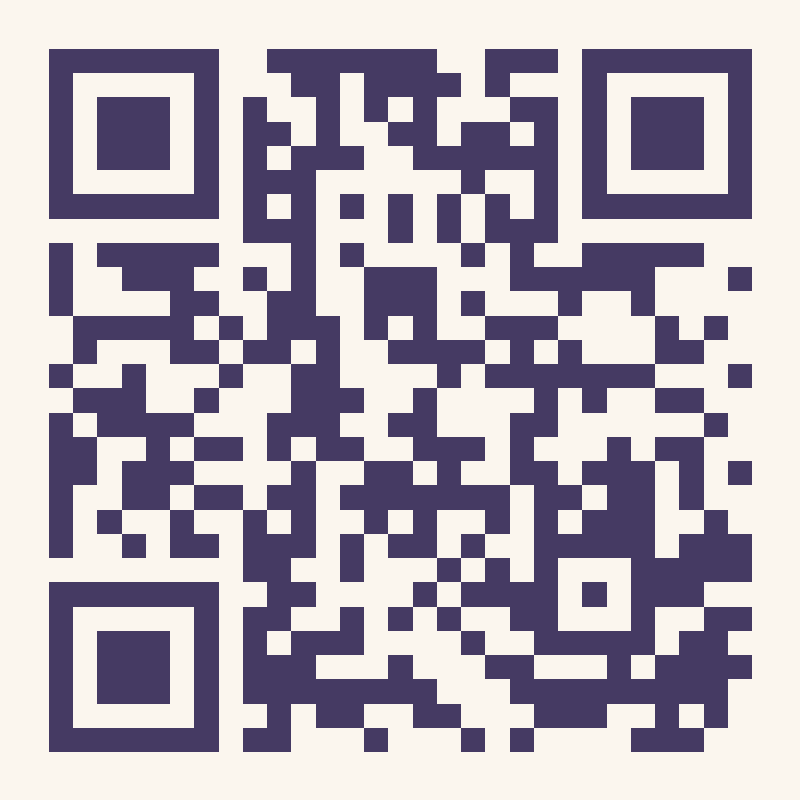
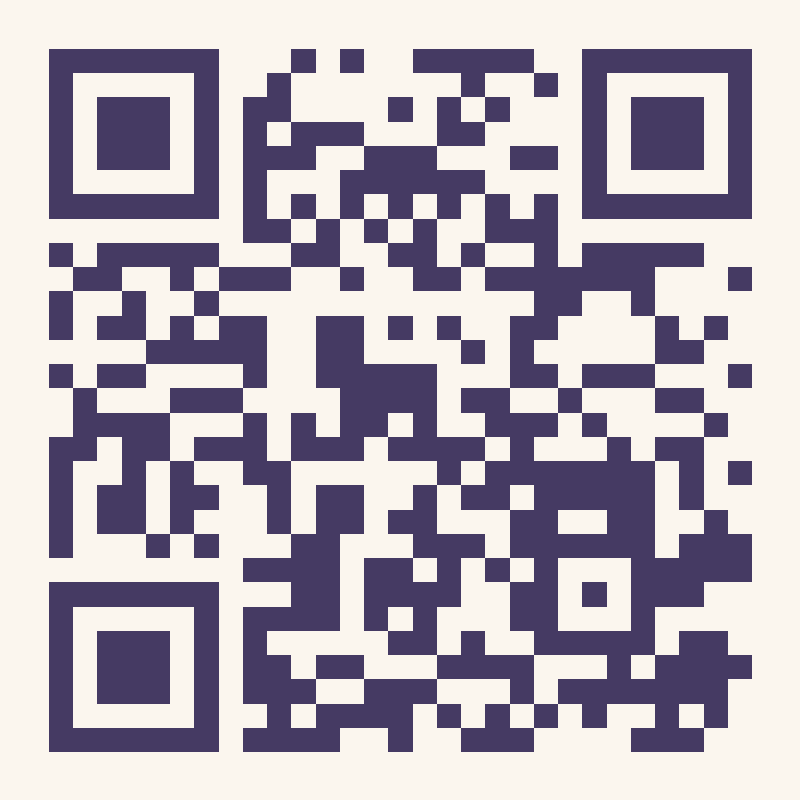
Point site URL and QR code at the live ruzhasimeonova.vercel.app domain

Changed region(s): [[0.0625, 0.0625, 0.7812, 0.9375], [0.5938, 0.8438, 0.75, 0.9375], [0.875, 0.75, 0.9375, 0.8125]]

diff --git a/app/content.ts b/app/content.ts
@@ -1,4 +1,4 @@
-export const siteUrl = "https://ruzha-simeonova.vercel.app";
+export const siteUrl = "https://ruzhasimeonova.vercel.app";
 
 export const person = {
   name: "Ружа Симеонова",

diff --git a/README.md b/README.md
@@ -22,31 +22,30 @@ QR кодът, сочещ към финалния Vercel адрес, се ген
 npm run generate:qr
 ```
 
-Резултатите се записват в `public/qr-code.png` и `public/qr-code.svg`. Ако финалният домейн
-се различава от `https://ruzha-simeonova.vercel.app`, подай го като аргумент:
+Резултатите се записват в `public/qr-code.png` и `public/qr-code.svg`. Ако адресът се промени
+в бъдеще, подай го като аргумент:
 
 ```bash
-node scripts/generate-qr.mjs https://ruzha-simeonova-zentio.vercel.app
+node scripts/generate-qr.mjs https://ruzhasimeonova.vercel.app
 ```
 
-## Деплой във Vercel (безплатен Hobby план)
+## Деплой (безплатен Vercel Hobby план)
 
-1. Качи проекта в частен GitHub repo:
-   ```bash
-   git init
-   git add .
-   git commit -m "Initial commit"
-   git branch -M main
-   git remote add origin <адрес на твоя GitHub repo>
-   git push -u origin main
-   ```
-2. Отиди на [vercel.com/new](https://vercel.com/new) → Import Git Repository → избери repo-то.
-3. Име на проекта: `ruzha-simeonova` (ако е заето: `ruzha-simeonova-zentio`).
-4. Framework се разпознава автоматично като Next.js — не са нужни допълнителни настройки или
-   променливи на средата.
-5. Deploy. Сайтът ще бъде достъпен на `https://ruzha-simeonova.vercel.app` (или резервното име).
-6. (По желание) Ако финалният адрес се различи, регенерирай QR кода с новия адрес (виж по-горе)
-   и redeploy-ни, за да влезе новият `public/qr-code.png` в проекта.
+Проектът е свързан с GitHub repo [`Kocev93/ruzhasimeonova`](https://github.com/Kocev93/ruzhasimeonova)
+и се деплойва автоматично във Vercel при всеки push към `main`.
+
+**Публичен адрес:** [`https://ruzhasimeonova.vercel.app`](https://ruzhasimeonova.vercel.app)
+
+За нов push:
+
+```bash
+git add .
+git commit -m "..."
+git push
+```
+
+Vercel хваща push-а автоматично и redeploy-ва сайта — не са нужни допълнителни настройки или
+променливи на средата.
 
 Всичко в проекта работи в рамките на безплатния Vercel Hobby план и безплатните `*.vercel.app`
 поддомейни — не се изисква кредитна карта, платен план или платен API ключ.
